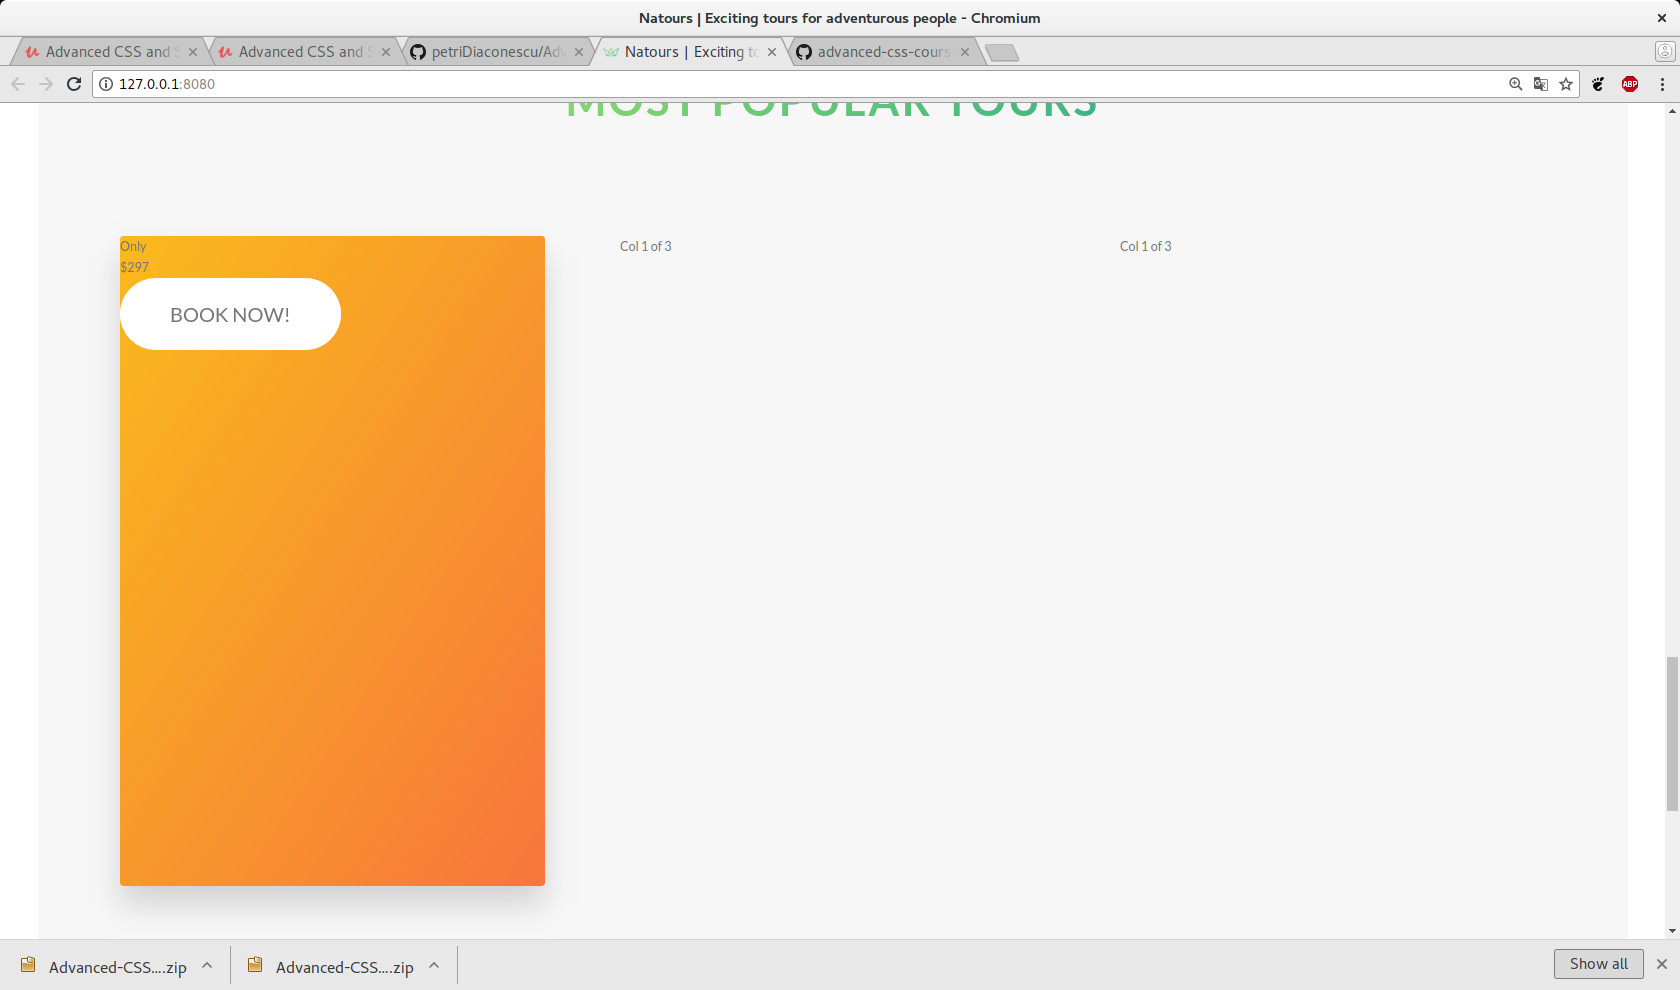
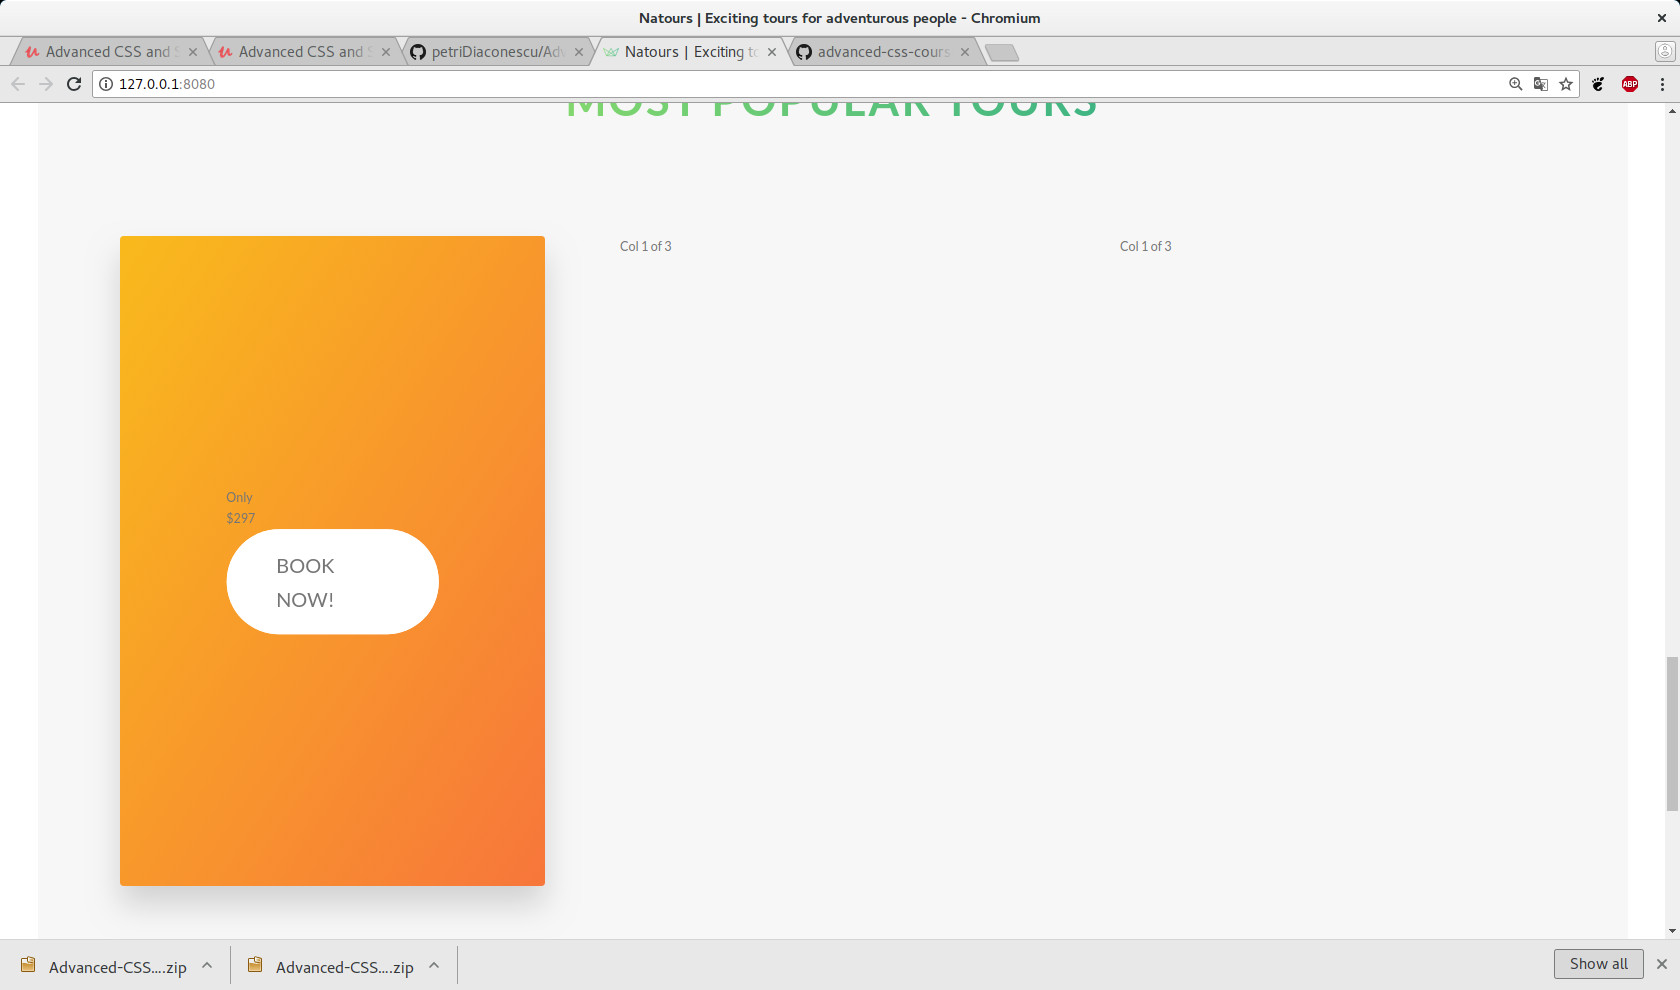
Style price-only and price-value sections

Changed region(s): [[0.1238, 0.5152, 0.2786, 0.6667], [0.0619, 0.2424, 0.2167, 0.3636]]

diff --git a/sass/components/_card.scss b/sass/components/_card.scss
@@ -119,11 +119,13 @@
     
   }
   
-  &__price_only {
-    
+  &__price-only {
+    font-size: 1.4rem;
+    text-transform: uppercase;
   }
   
-  &__price_value {
-    
+  &__price-value {
+    font-size: 6rem;
+    font-weight: 100;
   }
 }
